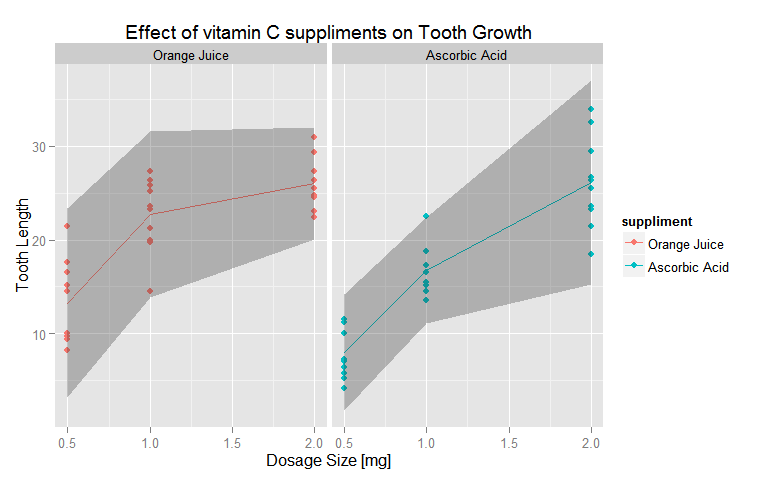
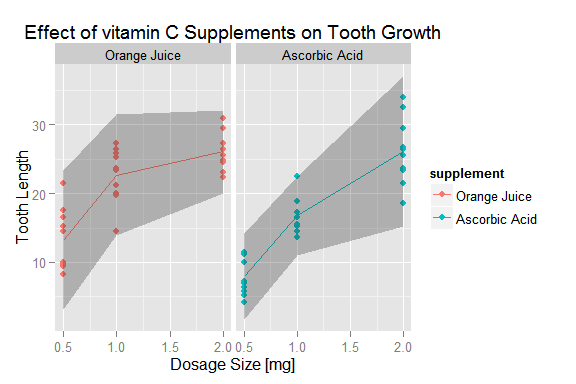
added tests for dosage amout significance, fixed spelling

diff --git a/ToothGrowthSignificance.md b/ToothGrowthSignificance.md
@@ -1,9 +1,9 @@
-# Does the Type of Vitamin C Suppliment Affect Tooth Growth?
+# Does the Type of Vitamin C Supplement Affect Tooth Growth?
 MattDSquared  
 Saturday, June 20, 2015  
 
 ## Question
-By looking at the R datasets package for ToothGrowth, does the type of suppliment used for vitamin C delivery have an effect on tooth growth in guinea pigs?
+By looking at the R datasets package for ToothGrowth, does the type of supplement used for vitamin C delivery have an effect on tooth growth in guinea pigs?
 
 _This project is a part of the Coursera Statistical Inference Class._
 
@@ -20,23 +20,23 @@ library(knitr)
 data(ToothGrowth) # loads ToothGrowth data frame
 
 # rename variables for plotting clarity
-names(ToothGrowth) <- c("length","suppliment","dose")
+names(ToothGrowth) <- c("length","supplement","dose")
 
-# assign more clear suppliment labels
-ToothGrowth$suppliment <- factor(ToothGrowth$suppliment, levels=c("OJ","VC"), labels=c("Orange Juice", "Ascorbic Acid"))
+# assign more clear supplement labels
+ToothGrowth$supplement <- factor(ToothGrowth$supplement, levels=c("OJ","VC"), labels=c("Orange Juice", "Ascorbic Acid"))
 
 # number of guinea pigs per sample
 n <- 10
 ```
 
 ## Exploratory Analysis
-What are the general trends in tooth length vs suppliment delivery method and dosage? Let's assume the underlying distribution is iid normally distributed and the confidence bounds of any 10-guinea-pig group can be explained by a t distribution with degrees of freedom, n-1=9. 
+What are the general trends in tooth length vs supplement delivery method and dosage? Let's assume the underlying distribution is iid normally distributed and the confidence bounds of any 10-guinea-pig group can be explained by a t distribution with degrees of freedom, n-1=9. 
 
 
 ```r
 df <- n-1
 ToothStats <- ToothGrowth %>% 
-    group_by(suppliment,dose) %>%
+    group_by(supplement,dose) %>%
     summarize(mean_length = mean(length), sd_length=sd(length), 
               lbound=mean_length-qt(.975,df)*sd_length,
               ubound=mean_length+qt(.975,df)*sd_length)
@@ -47,13 +47,13 @@ The statistics for this data set are shown below.
 
 ```r
 kable(ToothStats, format="markdown", digits = 2,
-      col.names=c("Suppliment","Dosage (mg)","Mean Length","Std Dev Length",
+      col.names=c("Supplement","Dosage (mg)","Mean Length","Std Dev Length",
                   "95% Interval, Lower","95% Interval, Upper"))
 ```
 
 
 
-|Suppliment    | Dosage (mg)| Mean Length| Std Dev Length| 95% Interval, Lower| 95% Interval, Upper|
+|Supplement    | Dosage (mg)| Mean Length| Std Dev Length| 95% Interval, Lower| 95% Interval, Upper|
 |:-------------|-----------:|-----------:|--------------:|-------------------:|-------------------:|
 |Orange Juice  |         0.5|       13.23|           4.46|                3.14|               23.32|
 |Orange Juice  |         1.0|       22.70|           3.91|               13.85|               31.55|
@@ -62,22 +62,22 @@ kable(ToothStats, format="markdown", digits = 2,
 |Ascorbic Acid |         1.0|       16.77|           2.52|               11.08|               22.46|
 |Ascorbic Acid |         2.0|       26.14|           4.80|               15.29|               36.99|
 
-The below plot shows how tooth length varies by suppliment type and dosage. The line plot connects the group means, with the 95% confidence interval shown in grey.
+The plot below shows how tooth length varies by supplement type and dosage. The line plot connects the group means, with the 95% confidence interval shown in grey.
 
 
 ```r
 gg <- ggplot() +
-    facet_grid(. ~ suppliment) +
+    facet_grid(. ~ supplement) +
     geom_point(data=ToothGrowth, 
-               aes(x=dose,y=length, color=suppliment)) +
+               aes(x=dose,y=length, color=supplement)) +
     geom_line(data = ToothStats, 
-              aes(x=dose, y=mean_length, color=suppliment)) +
+              aes(x=dose, y=mean_length, color=supplement)) +
 #    geom_errorbar(data = ToothStats, 
 #                  aes(x=dose, ymin=lbound, ymax=ubound)) +
     geom_ribbon(data = ToothStats, 
                   aes(x=dose, ymin=lbound, ymax=ubound), 
                 alpha=.3) +
-    labs(title="Effect of vitamin C suppliments on Tooth Growth") +
+    labs(title="Effect of vitamin C Supplements on Tooth Growth") +
     labs(x="Dosage Size [mg]") +
     labs(y="Tooth Length")
 print(gg)
@@ -85,46 +85,71 @@ print(gg)
 
 ![](ToothGrowthSignificance_files/figure-html/exploratory.display-1.png) 
 
-It certainly appears that orange juice does improve tooth growth on average, however lets use t-tests to understand if these differences are significant. 
+It certainly appears that orange juice does improve tooth growth on average, however let's use t-tests to understand if these differences are significant. 
 
-## Signficance of suppliment type by dose on length of tooth
-The objective of this study is to determine whether or not one suppliment significantly increases tooth growth over the other at a given dosage. Or more formally:
+## Significance of Supplement type by dose on length of tooth
+The objective of this study is to determine whether or not one supplement significantly increases tooth growth over the other at a given dosage. Or more formally:
 
-H~0~: suppliment type has no effect on tooth length at any dosage level.  
-H~a~: suppliment type has a non-zero effect on tooth length at any dosage level.  
+H~0~: Supplement type has no effect on tooth length at any dosage level.  
+H~a~: Supplement type has a non-zero effect on tooth length at any dosage level.  
 
 As stated earlier, assume the underlying distribution is iid normal, with the t distribution able to explain the distribution of this small sample size. 
 
 
 ```r
-# t-test for suppliment groups between each dosage
-dose.t.test <- function(dosage) {
-    dose.t <- t.test(data = filter(ToothGrowth, dose == dosage), 
-                     length ~ suppliment, 
-                     paired = FALSE, var.equal = TRUE)
+# t-test for dosage significance
+dose.t.test <- function(dose1, dose2, supp=c("Orange Juice","Ascorbic Acid")) {
+    dat  <- filter(ToothGrowth, (dose %in% c(dose1,dose2)) & 
+                       (supplement %in% supp))
+    dose.t <- t.test(data = dat, 
+                     length ~ dose, 
+                     paired = FALSE, var.equal = FALSE)
+    case.name <- paste(paste(supp, collapse=", "),": dosage ", dose1,
+                       " - ",dose2, sep="")
     dose.t <- with(dose.t, data.frame(statistic, parameter, p.value, 
                                       conf.int[1], conf.int[2],
-                                      row.names=dosage))
+                                      row.names=case.name))
     names(dose.t) <- c("t","df","p.value","conf.int.l","conf.int.u")
     dose.t
 }
-t.stats <- rbind(dose.t.test(.5), dose.t.test(1), dose.t.test(2))
+
+# t-test for supplement groups between each dosage
+supp.t.test <- function(dosage) {
+    supp.t <- t.test(data = filter(ToothGrowth, dose == dosage), 
+                     length ~ supplement, 
+                     paired = FALSE, var.equal = FALSE)
+    case.name <- paste("dosage:",dosage, ", OJ - AA", sep="")
+    supp.t <- with(supp.t, data.frame(statistic, parameter, p.value, 
+                                      conf.int[1], conf.int[2],
+                                      row.names=case.name))
+    names(supp.t) <- c("t","df","p.value","conf.int.l","conf.int.u")
+    supp.t
+}
+
+t.stats <- rbind(dose.t.test(.5,1), dose.t.test(1,2), 
+                 dose.t.test(1,2,"Orange Juice"), 
+                 dose.t.test(1,2,"Ascorbic Acid"),
+                 supp.t.test(.5), supp.t.test(1), supp.t.test(2))
 ```
-The table below shows the t test for significance between Orange Juice and Ascorbic Acid suppliment (in that order) for each dosage level. 
+The table below shows the t test for significance between different dosage levels as well as between Orange Juice and Ascorbic Acid supplement (in that order) for each dosage level. 
 
 ```r
 kable(t.stats, format="markdown", digits = 3,
-      col.names=c("Dosage (mg)","t statistic","p-value",
+      col.names=c("t statistic","df","p-value",
                   "95% t-interval, lower","95% t-interval, upper"))
 ```
 
 
 
-|    | Dosage (mg)| t statistic| p-value| 95% t-interval, lower| 95% t-interval, upper|
-|:---|-----------:|-----------:|-------:|---------------------:|---------------------:|
-|0.5 |       3.170|          18|   0.005|                 1.770|                 8.730|
-|1   |       4.033|          18|   0.001|                 2.841|                 9.019|
-|2   |      -0.046|          18|   0.964|                -3.723|                 3.563|
+|                                            | t statistic|     df| p-value| 95% t-interval, lower| 95% t-interval, upper|
+|:-------------------------------------------|-----------:|------:|-------:|---------------------:|---------------------:|
+|Orange Juice, Ascorbic Acid: dosage 0.5 - 1 |      -6.477| 37.986|   0.000|               -11.984|                -6.276|
+|Orange Juice, Ascorbic Acid: dosage 1 - 2   |      -4.900| 37.101|   0.000|                -8.996|                -3.734|
+|Orange Juice: dosage 1 - 2                  |      -2.248| 15.842|   0.039|                -6.531|                -0.189|
+|Ascorbic Acid: dosage 1 - 2                 |      -5.470| 13.600|   0.000|               -13.054|                -5.686|
+|dosage:0.5, OJ - AA                         |       3.170| 14.969|   0.006|                 1.719|                 8.781|
+|dosage:1, OJ - AA                           |       4.033| 15.358|   0.001|                 2.802|                 9.058|
+|dosage:2, OJ - AA                           |      -0.046| 14.040|   0.964|                -3.798|                 3.638|
 
 ## Conclusion
-The t-tests show that at a dosage level of 0.5 and 1.0 mg, Orange Juice has a significantly greater effect on increasing tooth growth than Ascorbic Acid, however at a dosage level of 2.0 mg, there is no significant difference between the two suppliments. With this information we can certainly decide H~a~, suppliment type has an effect on tooth growth, at least at certain dosage levels.
+The t-tests show two things. First, there is a significant difference between each dosage level under all circumstances. Second, at a dosage level of 0.5 and 1.0 mg, Orange Juice has a significantly greater effect on increasing tooth growth than Ascorbic Acid. However, at a dosage level of 2.0 mg, there is no significant difference between the two supplements. With this information we can certainly decide H~a~, supplement type has an effect on tooth growth, but only at certain dosage levels.
